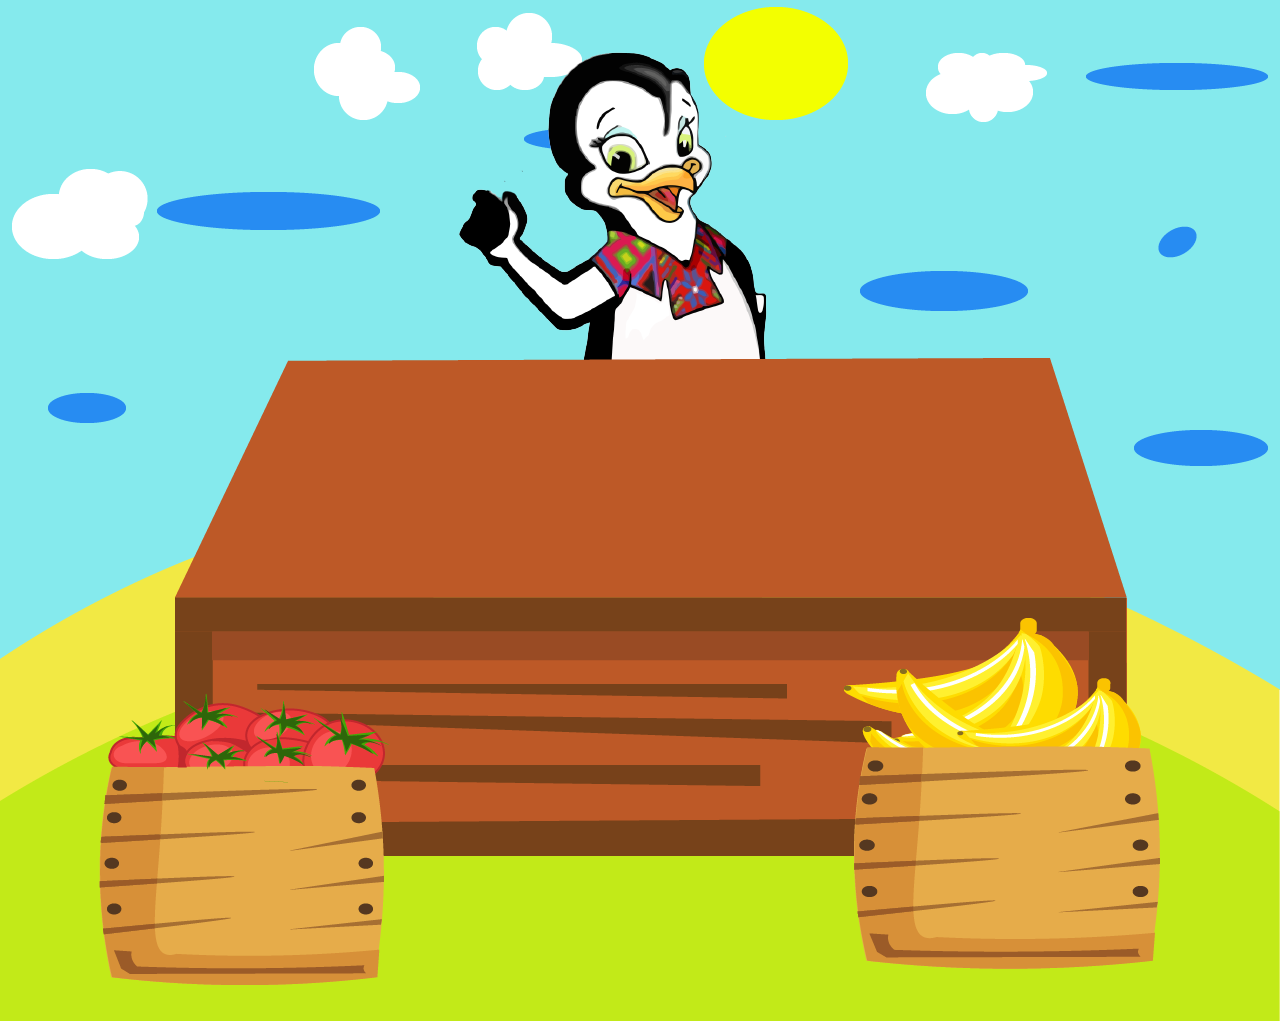
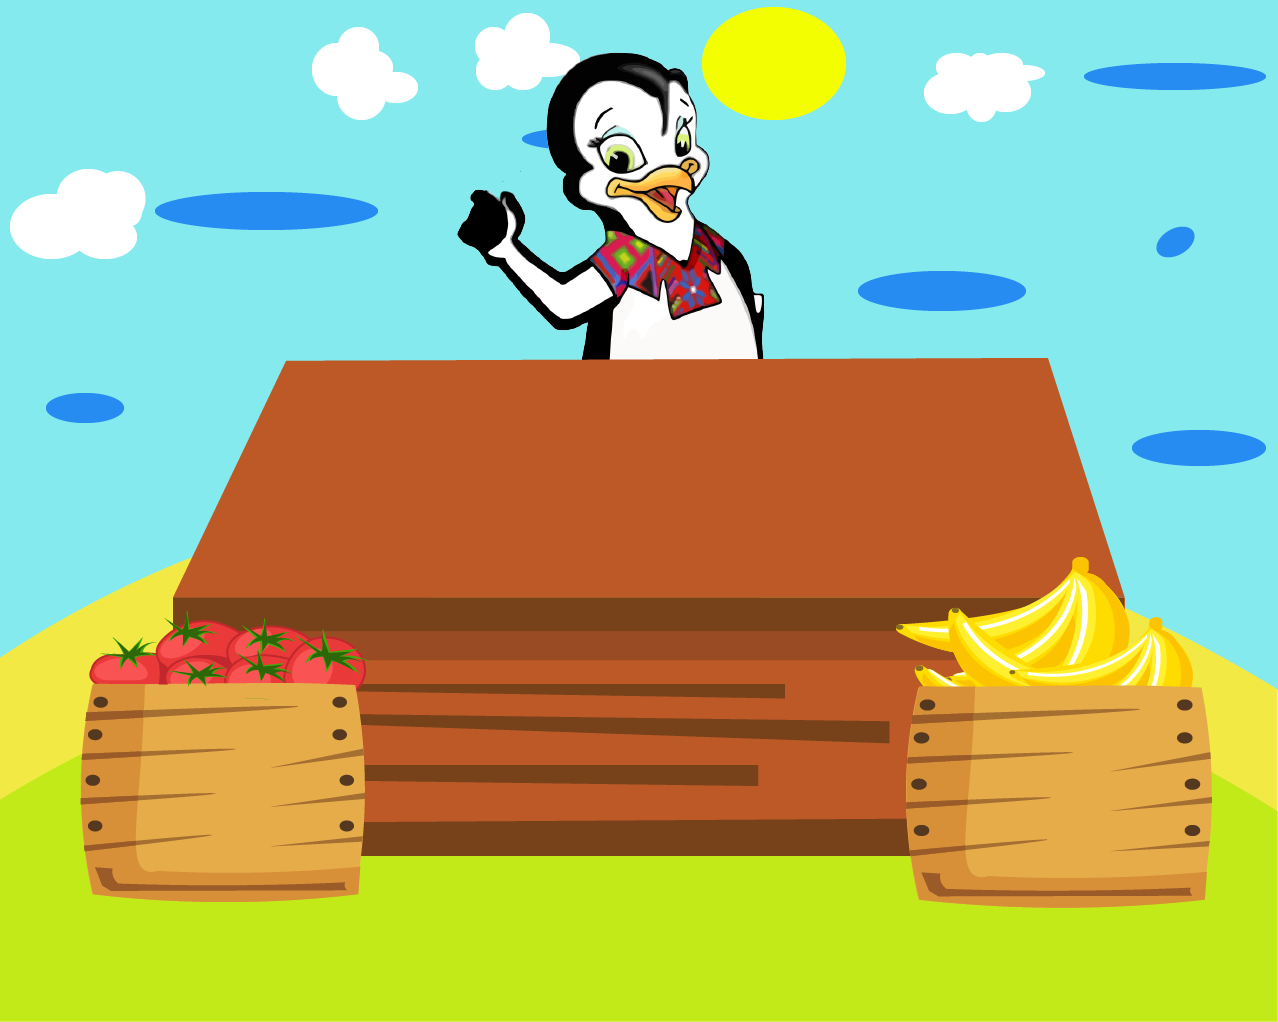
Se agregaron mas frutas y se modifico un poco los fondos, se centro el cuadro del tiempo

diff --git a/sections/juego.html b/sections/juego.html
@@ -73,7 +73,7 @@ Foundation, Inc., 59 Temple Place - Suite 330, Boston, MA  02111-1307, USA.
         </div>
     </main>
 
-    <footer class=" col-md-offset-5 col-sm-3">
+    <footer class=" col-md-offset-5 col-sm-2">
         <div class="panel panel-custom">
             <div>
                 <h2 id="nombre-nivel">Jugador 1</h2>
